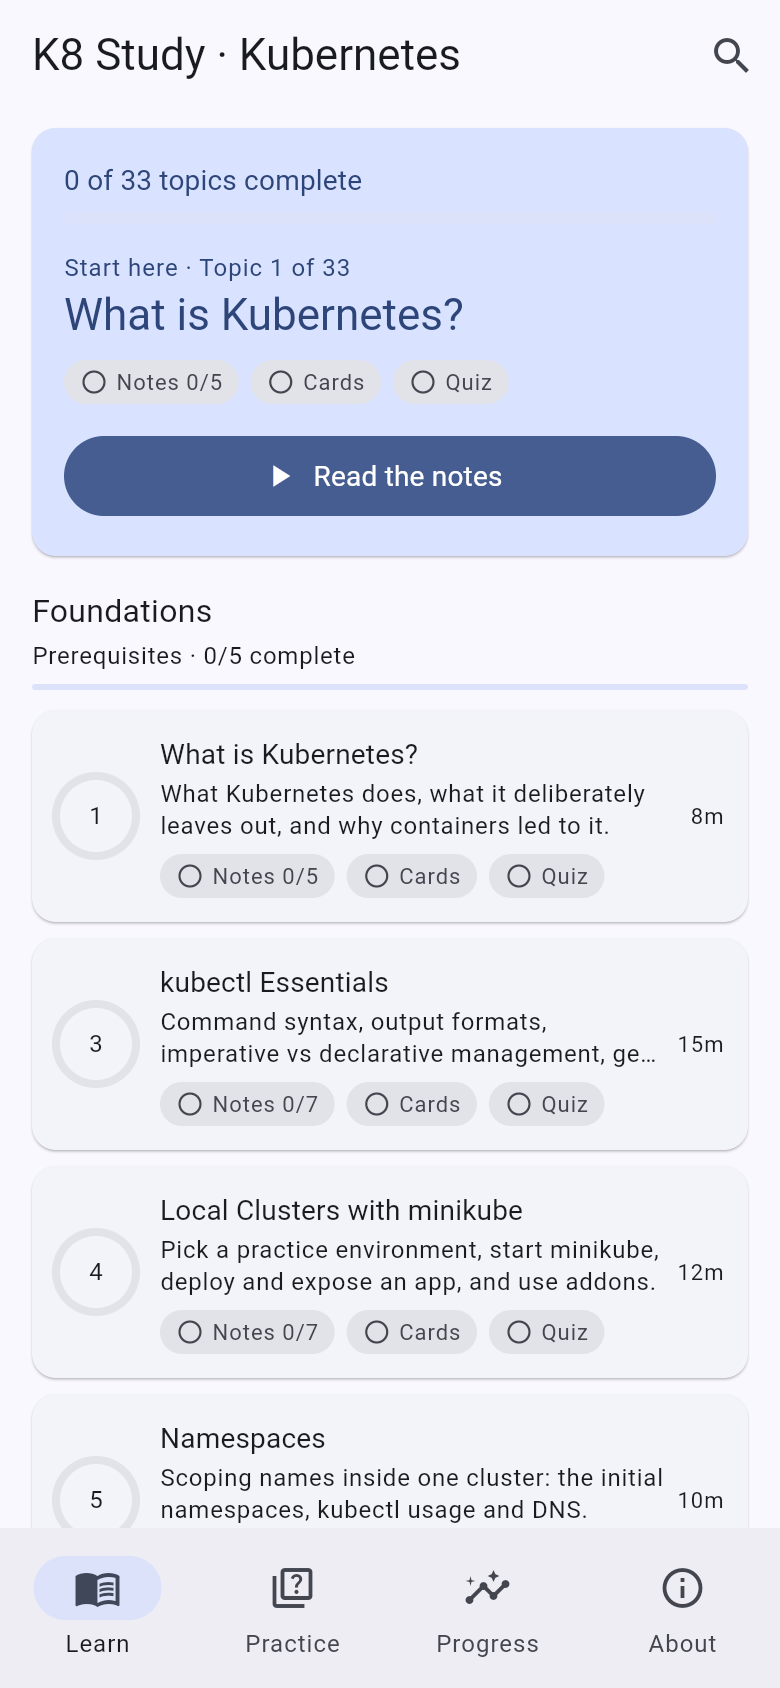
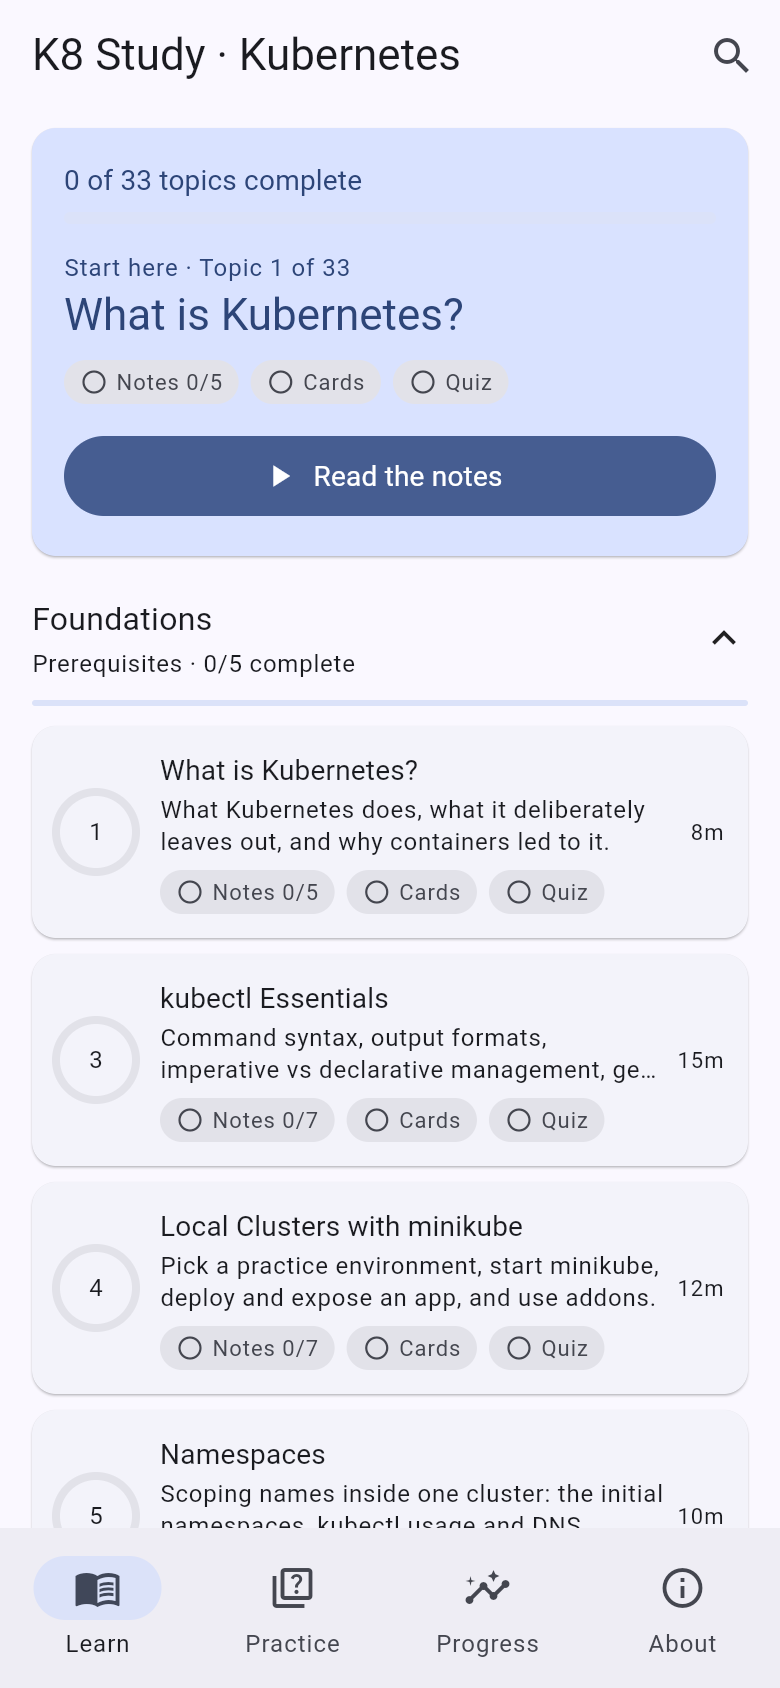
Fact-check fixes for new topics, collapsible domains, subject scaffolder
- Independent audit of the 27 new topics against their cited pages:
  24 corrections (unsupported claims reworded/re-cited, StatefulSet
  Recreate strategy added, legacy DNS form labelled)
- Learn: domain sections collapse; completed domains start collapsed;
  empty-subject state
- tool/new_subject.py scaffolds a subject and registers it
- Spec §13 documents v1.1 (curriculum, multi-subject, where-am-I, gaps)

Claude-Session: https://claude.ai/code/session_0162YmyZA1n4PFA3AmPFRJNc

diff --git a/lib/screens/topic_browser_screen.dart b/lib/screens/topic_browser_screen.dart
@@ -123,7 +123,11 @@ class _ContinueCard extends StatelessWidget {
               semanticsLabel: 'Overall progress',
             ),
             const SizedBox(height: 14),
-            if (next == null) ...[
+            if (total == 0)
+              Text('No topics yet for this subject.',
+                  style: textTheme.titleMedium
+                      ?.copyWith(color: scheme.onPrimaryContainer))
+            else if (next == null) ...[
               Text(
                 'Every topic is complete',
                 style: textTheme.titleLarge?.copyWith(
@@ -174,7 +178,9 @@ class _ContinueCard extends StatelessWidget {
   }
 }
 
-class _DomainSection extends StatelessWidget {
+/// A domain heading with progress; tap to collapse. Fully completed domains
+/// start collapsed so the list stays focused on what's left.
+class _DomainSection extends StatefulWidget {
   const _DomainSection({
     required this.content,
     required this.domain,
@@ -186,7 +192,19 @@ class _DomainSection extends StatelessWidget {
   final List<Topic> topics;
 
   @override
+  State<_DomainSection> createState() => _DomainSectionState();
+}
+
+class _DomainSectionState extends State<_DomainSection> {
+  late bool _expanded =
+      !(widget.topics.isNotEmpty &&
+          widget.topics.every(context.read<ProgressStore>().topicComplete));
+
+  @override
   Widget build(BuildContext context) {
+    final content = widget.content;
+    final domain = widget.domain;
+    final topics = widget.topics;
     final progress = context.watch<ProgressStore>();
     final textTheme = Theme.of(context).textTheme;
     final complete = topics.where(progress.topicComplete).length;
@@ -199,24 +217,47 @@ class _DomainSection extends StatelessWidget {
       child: Column(
         crossAxisAlignment: CrossAxisAlignment.stretch,
         children: [
-          Semantics(
-            header: true,
-            child: Text(domain.title, style: textTheme.titleMedium),
-          ),
-          const SizedBox(height: 2),
-          Row(
-            children: [
-              Expanded(
-                child: Text(
-                  [
-                    if (weight.isNotEmpty) weight,
-                    if (topics.isNotEmpty)
-                      '$complete/${topics.length} complete',
-                  ].join(' · '),
-                  style: textTheme.bodySmall,
-                ),
+          InkWell(
+            key: ValueKey('domain-${domain.id}'),
+            borderRadius: BorderRadius.circular(8),
+            onTap: topics.isEmpty
+                ? null
+                : () => setState(() => _expanded = !_expanded),
+            child: Padding(
+              padding: const EdgeInsets.symmetric(vertical: 4),
+              child: Row(
+                children: [
+                  Expanded(
+                    child: Column(
+                      crossAxisAlignment: CrossAxisAlignment.start,
+                      children: [
+                        Semantics(
+                          header: true,
+                          child: Text(
+                            domain.title,
+                            style: textTheme.titleMedium,
+                          ),
+                        ),
+                        const SizedBox(height: 2),
+                        Text(
+                          [
+                            if (weight.isNotEmpty) weight,
+                            if (topics.isNotEmpty)
+                              '$complete/${topics.length} complete',
+                          ].join(' · '),
+                          style: textTheme.bodySmall,
+                        ),
+                      ],
+                    ),
+                  ),
+                  if (topics.isNotEmpty)
+                    Icon(
+                      _expanded ? Icons.expand_less : Icons.expand_more,
+                      semanticLabel: _expanded ? 'Collapse' : 'Expand',
+                    ),
+                ],
               ),
-            ],
+            ),
           ),
           if (topics.isNotEmpty) ...[
             const SizedBox(height: 6),
@@ -227,7 +268,9 @@ class _DomainSection extends StatelessWidget {
             ),
           ],
           const SizedBox(height: 10),
-          if (topics.isEmpty)
+          if (!_expanded)
+            const SizedBox.shrink()
+          else if (topics.isEmpty)
             const Card(
               child: ListTile(
                 enabled: false,

diff --git a/test/widget/progress_ux_test.dart b/test/widget/progress_ux_test.dart
@@ -197,4 +197,15 @@ void main() {
       expect(find.text('Basics'), findsOneWidget);
     },
   );
+
+  testWidgets('domain sections collapse and expand', (tester) async {
+    await setPhoneViewport(tester);
+    await pumpApp(tester);
+    final card = find.byKey(const ValueKey('topic-card-what-is-k8s'));
+    expect(card, findsOneWidget);
+    await tapKey(tester, 'domain-foundations');
+    expect(card, findsNothing);
+    await tapKey(tester, 'domain-foundations');
+    expect(card, findsOneWidget);
+  });
 }

diff --git a/tool/new_subject.py b/tool/new_subject.py
@@ -1,0 +1,79 @@
+"""Scaffolds a new study subject (e.g. Linux, Docker).
+
+    python3 tool/new_subject.py docker "Docker" --source https://docs.docker.com/
+
+Creates assets/content/subjects/<id>/{subject.json, practice_tests.json, topics/},
+adds the id to catalog.json and the asset directories to pubspec.yaml. Then:
+fill in domains/attributions, check the source licence, add topics
+(docs/ADDING_CONTENT.md) and run `python3 tool/validate_content.py <id>`.
+"""
+import argparse
+import json
+import re
+from datetime import date
+from pathlib import Path
+
+ROOT = Path(__file__).resolve().parent.parent
+CONTENT = ROOT / "assets" / "content"
+
+
+def main() -> None:
+    ap = argparse.ArgumentParser()
+    ap.add_argument("id", help="lowercase id, e.g. docker")
+    ap.add_argument("title", help='display title, e.g. "Docker"')
+    ap.add_argument("--source", action="append", default=[],
+                    help="allowed source URL prefix (repeatable)")
+    args = ap.parse_args()
+
+    sid = args.id
+    if not re.fullmatch(r"[a-z][a-z0-9-]*", sid):
+        raise SystemExit("id must be lowercase letters, digits and dashes")
+    sdir = CONTENT / "subjects" / sid
+    if sdir.exists():
+        raise SystemExit(f"{sdir} already exists")
+    (sdir / "topics").mkdir(parents=True)
+
+    subject = {
+        "id": sid,
+        "title": args.title,
+        "tagline": "TODO one-line tagline",
+        "description": "TODO description",
+        "contentVersion": 1,
+        "reviewedAt": date.today().isoformat(),
+        "domains": [
+            {"id": f"{sid}-basics", "title": "Basics", "weightPercent": None,
+             "isExamDomain": False, "competencies": []},
+        ],
+        "topics": [],
+        "sourceAllowlist": [{"prefix": p} for p in args.source],
+        "attributions": [
+            {"text": "TODO: licence + 'Changes: summarized and rewritten' statement "
+                     "for every allow-listed source.", "links": []},
+        ],
+        "trademarks": [],
+    }
+    (sdir / "subject.json").write_text(json.dumps(subject, indent=2) + "\n")
+    (sdir / "practice_tests.json").write_text(json.dumps({"tests": []}, indent=2) + "\n")
+
+    catalog_path = CONTENT / "catalog.json"
+    catalog = json.loads(catalog_path.read_text())
+    catalog["subjects"].append(sid)
+    catalog_path.write_text(json.dumps(catalog, indent=2) + "\n")
+
+    pubspec_path = ROOT / "pubspec.yaml"
+    pubspec = pubspec_path.read_text()
+    anchor = "    - assets/content/\n"
+    if anchor not in pubspec:
+        raise SystemExit("pubspec.yaml: couldn't find the assets list; add the directories by hand")
+    pubspec = pubspec.replace(
+        anchor,
+        anchor + f"    - assets/content/subjects/{sid}/\n    - assets/content/subjects/{sid}/topics/\n",
+        1,
+    )
+    pubspec_path.write_text(pubspec)
+    print(f"Created {sdir.relative_to(ROOT)}; registered in catalog.json and pubspec.yaml.")
+    print("Next: add topics (docs/ADDING_CONTENT.md), then python3 tool/validate_content.py " + sid)
+
+
+if __name__ == "__main__":
+    main()

diff --git a/spec/SPEC.md b/spec/SPEC.md
@@ -596,3 +596,77 @@ All recommendations accepted:
 3. **Docs version:** link the unversioned (latest) docs and record `reviewedAt`.
 4. **Ads flag:** `ADS_ENABLED` defaults to false in every build.
 5. **URLs:** hash URL strategy.
+
+## 13. v1.1 — complete curriculum, gaps, multi-subject (added after v1 review)
+
+The goal after v1 was complete CKA material, a clear sense of where you are,
+fast discovery of knowledge gaps, and easy onboarding of new subjects (Linux,
+Docker, …).
+
+### 13.1 Content
+
+- 33 Kubernetes topics cover all five CKA domains plus Foundations, with
+  432 flashcards and 451 questions.
+- Each topic was written from its source pages, then fact-checked
+  independently against them. `docs/SOURCES.md` lists every cited page.
+- `subject.json` `topics` sets the recommended **study order**. Topics may
+  declare `prerequisites`, which must appear earlier in that order.
+- Practice tests:
+  - a CKA domain-weighted mock (30 questions);
+  - a mixed test across all topics;
+  - one test per exam domain.
+
+### 13.2 Multi-subject content
+
+```
+assets/content/catalog.json                 # subject ids, in display order
+assets/content/subjects/<id>/subject.json   # metadata, exam, domains, study order, source allow-list, attributions
+assets/content/subjects/<id>/practice_tests.json
+assets/content/subjects/<id>/topics/*.json
+```
+
+- A new subject is data only. The steps are in `docs/ADDING_CONTENT.md`;
+  `tool/validate_content.py` checks content without Flutter.
+- The About page and source allow-lists are driven by `subject.json`.
+- A subject switcher appears in the Learn app bar once there are two or more
+  subjects.
+- Progress is keyed by item id. Ids must be unique across subjects; a test
+  checks this.
+
+### 13.3 Where am I
+
+- **Continue card** (S1) shows "Continue / Up next · Topic N of M", the
+  topic's Notes/Cards/Quiz status and a button for the next step.
+  - The next action is the recently opened topic if it's incomplete.
+  - Otherwise it's the next incomplete topic after it, wrapping round to
+    earlier gaps.
+- **Domain sections** show a weight, "x/y complete" and a progress bar, and
+  can be collapsed. Fully complete domains start collapsed.
+- **Topic cards** show their study-order number and step chips: Notes x/y,
+  Cards, and Quiz best %, marked red when below mastery.
+- **Topic hub** shows "Topic N of M", prerequisites (with completion), and
+  previous/next topic links.
+- **Notes** have a sections menu with read state and jump-to-section, and
+  support deep links (`?section=`).
+- **Search** (S1 app bar) covers topics, note sections and flashcards. A hit
+  opens the exact section.
+
+### 13.4 Finding gaps
+
+- **Answer history** (`k8s.answers`): for each question, times seen, times
+  correct, whether the latest answer was right, and when. It is recorded by
+  topic quizzes, retries, reviews and practice tests.
+- **Progress & gaps** (S10) shows:
+  - reviews due: flashcards due across topics, and questions missed last
+    time;
+  - **readiness by domain**: topic progress plus accuracy on answered
+    questions;
+  - **knowledge gaps by competency**, weakest first. A competency is a gap
+    when its accuracy is below 80% or fewer than half its questions have been
+    answered;
+  - topics that need attention, and practice history.
+- **Review quizzes** (`/progress/review?kind=missed|competency|domain&id=…`)
+  draw from that pool, prioritising questions that were wrong or are unseen.
+  They feed answer history but not topic best scores.
+- **Due-card session** (`/progress/cards`) reviews every due flashcard in the
+  subject in one Leitner session.

diff --git a/README.md b/README.md
@@ -1,8 +1,10 @@
 # k8-study
 
 Mobile-friendly, interactive Kubernetes study guide, built to be better than the
-ad-spammy tutorial apps out there. It has study notes, flashcards, quizzes, and
-CKA-domain-mapped practice tests. It ships as an installable PWA and goes native only
+ad-spammy tutorial apps out there. It has 33 topics covering all five CKA domains
+(432 flashcards, 451 questions), quizzes, CKA-domain practice tests, and progress
+tracking: it shows where you are and which competencies are your weakest.
+The content model is multi-subject, so Linux, Docker and others can be added as data. It ships as an installable PWA and goes native only
 when the web version earns it.
 
 The full specification is in [`spec/SPEC.md`](spec/SPEC.md). Screens, data model,
@@ -56,16 +58,19 @@ CI (`.github/workflows/ci.yml`) runs all of the above on every PR.
 lib/
   content/     models (strict JSON parsing), loader, inline markup
   engine/      flashcards (Leitner), quiz, practice — pure Dart
-  progress/    local persistence
+  progress/    local persistence + insights (next action, readiness, gaps)
   ads/         AdsService interface, frequency cap, impl/ (noop, placeholder, admob stub)
   screens/     S1–S11 from the spec
   widgets/     note blocks, question view, source links …
-assets/content/  hand-written study content (JSON)
+assets/content/  catalog.json + subjects/<id>/ (subject.json, topics/, practice_tests.json)
 tool/            gen_precache.dart, pwa_check/, source_report.py, make_icons.py
-docs/            SOURCES.md (source-check list), screenshots/
+docs/            ADDING_CONTENT.md, SOURCES.md (source-check list), screenshots/
 ```
 
 ## Content
+
+New topics or subjects: see [`docs/ADDING_CONTENT.md`](docs/ADDING_CONTENT.md),
+and validate with `python3 tool/validate_content.py`.
 
 Study notes are hand-written from the official Kubernetes documentation
 (https://kubernetes.io/docs/), which is licensed

diff --git a/docs/ADDING_CONTENT.md b/docs/ADDING_CONTENT.md
@@ -82,6 +82,10 @@ section cites exactly one page. Block types:
 
 ## Add a subject (e.g. Linux, Docker)
 
+Quick start: `python3 tool/new_subject.py docker "Docker" --source https://docs.docker.com/`
+scaffolds the files below and registers the subject in `catalog.json` and
+`pubspec.yaml`. Then fill in the TODOs.
+
 1. Create `subjects/<subjectId>/subject.json`:
 
 ```jsonc
